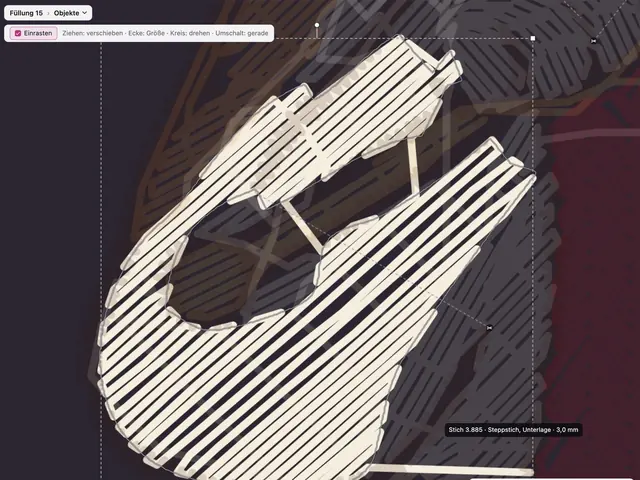
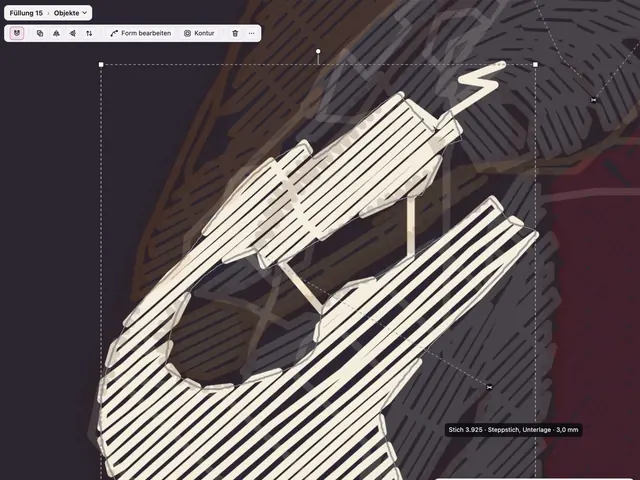
Teil 13 neu aufgenommen: Aktionsleiste, hohle Punkte, Weitersticken, Stimme Gacrux, Länge 3:20

diff --git a/src/videos/catalog.ts b/src/videos/catalog.ts
@@ -186,11 +186,11 @@ export const VIDEOS: Video[] = [
     key: '13-form-und-einzelne-stiche',
     part: 13,
     title: { de: 'Form und einzelne Stiche', en: 'Shape and single stitches' },
-    length: '2:38',
+    length: '3:20',
     group: 'detail',
-    goal: { de: 'Du änderst die Form eines Objekts an seinen Knoten und setzt, verschiebst und dünnst einzelne Stiche aus.', en: "You change an object's shape at its nodes and add, move and thin out single stitches." },
+    goal: { de: 'Du änderst die Form eines Objekts an seinen Knoten und setzt, verschiebst, ergänzt und dünnst einzelne Stiche aus.', en: "You change an object's shape at its nodes and add, move, extend and thin out single stitches." },
     files: ['cat-60mm.pes'],
-    published: '2026-10-09T12:22:19+02:00',
+    published: '2026-10-11T13:04:55+02:00',
   },
 ];
 

diff --git a/docs/screencasts/13-form-und-einzelne-stiche/vorlage.md b/docs/screencasts/13-form-und-einzelne-stiche/vorlage.md
@@ -1,10 +1,10 @@
 # Teil 13: Form und einzelne Stiche
 
-Schlüssel `13-form-und-einzelne-stiche`, Demodatei `cat-60mm.pes` („Katze“ unter „Weitere Beispiele“), etwa 2,5 Minuten, rund 320 Wörter.
+Schlüssel `13-form-und-einzelne-stiche`, Demodatei `cat-60mm.pes` („Katze“ unter „Weitere Beispiele“), 3:20 lang (die Stimme Gacrux spricht ruhiger als Aoede; Daniel hat die Länge so abgenommen), rund 310 Wörter.
 
-Das ganze Video arbeitet an einem Objekt: der linken Pfote der Katze (Creme, „Füllung 15“, 212 Stiche). Sie ist aus den Stichen erkannt; ihr Umriss hat 34 Knoten und oben eine kleine Schlaufe, die die Erkennung hineingelegt hat. Ohne die Schlaufe hat sie 32 Knoten, Vereinfachen macht daraus 23, und die Pfote wird sauber neu gestickt.
+Das ganze Video arbeitet an einem Objekt: der linken Pfote der Katze (Creme, „Füllung 15“, 212 Stiche). Sie ist aus den Stichen erkannt; ihr Umriss hat 34 Knoten und oben eine kleine Schlaufe, die die Erkennung hineingelegt hat. Ohne die Schlaufe hat sie 32 Knoten, Vereinfachen macht daraus 23, ein hohler Punkt einen 24. Knoten, und die Pfote wird sauber neu gestickt.
 
-Aufgenommen mit main 8b21718: Ausdünnen legt die gewählten Reihen einer Füllung gleichmäßig weiter (#203, #207); die Pfote hat danach 188 statt 208 Stiche. Etwa 2:38 lang.
+Neu aufgenommen mit main 5dcdb89 (Oktober 2026): „Form bearbeiten“ in der Aktionsleiste, Form-Leiste nur mit Symbolen, hohle Punkte für neue Knoten, Stich-Leiste mit Weitersticken, Papierkorb und Pfeilen. Die Werkzeuge Verbinden, Teilen, Knoten an Kreuzungen und Pfad öffnen zeigt Teil 16. Stimme abweichend von der Serie: Gacrux.
 
 ## Szene 1
 
@@ -14,60 +14,66 @@ Aufgenommen mit main 8b21718: Ausdünnen legt die gewählten Reihen einer Füllu
 
 ## Szene 2
 
-**Bild:** Klick auf die linke Pfote: Sie ist gewählt, der Rest der Katze wird blass. Heranzoomen oben links, Etikett Breadcrumb an „Füllung 15 › Objekte“. Klick auf „Objekte“, das Menü zeigt die drei Ebenen Objekte, Form und Stiche. Esc schließt es.
+**Bild:** Klick auf die linke Pfote: Sie ist gewählt. Heranzoomen oben links, Etikett Breadcrumb an „Füllung 15 › Objekte“. Klick auf „Objekte“, das Menü zeigt die drei Ebenen Objekte, Form und Stiche. Esc schließt es.
 
 **Sprechtext:** Ich klicke die Pfote an. Oben links auf der Bühne steht der Breadcrumb. Er nennt das Objekt und die Ebene, auf der du arbeitest: Objekte, Form oder Stiche.
 
 ## Szene 3
 
-**Bild:** Doppelklick auf die Pfote. Die Bühne zoomt auf ihren Umriss mit Knoten, Breadcrumb „Form“, darüber die Leiste „Umriss 34 Knoten“. Etiketten nacheinander an einem Quadrat (Ecke) und einem Kreis (rund).
+**Bild:** Der Zeiger fährt auf „Form bearbeiten“ in der Aktionsleiste unter dem Breadcrumb, Etikett. Dann Doppelklick auf die Pfote. Die Bühne zoomt auf ihren Umriss mit Knoten, Breadcrumb „Form“, darüber die Leiste „Umriss 34 Knoten“. Etiketten nacheinander an einem Quadrat (Ecke) und einem Kreis (rund).
 
-**Sprechtext:** Ein Doppelklick öffnet die Form. Jetzt siehst du den Umriss mit seinen Knoten. Quadrate sind Ecken, Kreise sind runde Knoten.
+**Sprechtext:** Darunter liegt die Aktionsleiste mit Form bearbeiten. Schneller geht ein Doppelklick. Jetzt siehst du den Umriss mit seinen Knoten. Quadrate sind Ecken, Kreise sind runde Knoten.
 
 ## Szene 4
 
-**Bild:** Heranzoomen auf die kleine Schlaufe oben an der Pfote. Klick auf ihren Knoten, Tastenkappe „Entf“. Die Schlaufe ist weg, die Pfote wird neu gestickt, die Leiste zeigt 32 Knoten.
+**Bild:** Heranzoomen auf die kleine Schlaufe oben an der Pfote, Etikett Schlaufe. Klick auf ihren Knoten, Tastenkappe „Entf“. Die Schlaufe ist weg, die Pfote wird neu gestickt, die Leiste zeigt 32 Knoten.
 
 **Sprechtext:** [curious] Hier hat die Erkennung eine kleine Schlaufe gemacht. Ich klicke den Knoten an und drücke Entfernen. [satisfied] Weg ist sie, und die Pfote wird gleich neu gestickt.
 
 ## Szene 5
 
-**Bild:** Heranzoomen auf die Leiste über der Bühne, Etikett Vereinfachen, Klick. Die Meldung „32 → 23 Knoten“ erscheint unten auf der Bühne, die Form sieht gleich aus.
+**Bild:** Heranzoomen auf die Form-Leiste, Etikett „32 Knoten“, dann Etikett Vereinfachen am Symbol, Klick. Die Meldung „32 → 23 Knoten“ erscheint unten auf der Bühne, Etikett „23 Knoten“, die Form sieht gleich aus.
 
-**Sprechtext:** Aus Stichen erkannte Formen haben oft mehr Knoten als nötig. Vereinfachen in der Leiste über der Bühne nimmt welche weg, ohne die Form sichtbar zu ändern. Aus 32 werden 23 Knoten.
+**Sprechtext:** Erkannte Formen haben oft mehr Knoten als nötig. Das Symbol Vereinfachen nimmt welche weg, ohne die Form sichtbar zu ändern. Aus 32 werden 23 Knoten.
 
 ## Szene 6
 
-**Bild:** Der Zeiger zieht einen runden Knoten unten an der Pfote ein Stück nach außen, die Pfote wird runder. Beim Loslassen erscheinen die neuen Stiche.
+**Bild:** Heranzoomen unten rechts an die Pfote. Etikett „hohler Punkt“ an einem hohlen Punkt in der Mitte einer Kurve. Der Zeiger zieht ihn nach außen, ein neuer Knoten entsteht, die Pfote wird runder. Beim Loslassen erscheinen die neuen Stiche.
 
-**Sprechtext:** Einen Knoten ziehst du einfach mit der Maus. Ich mache die Pfote unten etwas runder. Beim Loslassen stickt heatstitch sie mit ihren Einstellungen neu.
+**Sprechtext:** Knoten ziehst du einfach mit der Maus. Ziehst du einen der hohlen Punkte dazwischen, entsteht dort ein neuer Knoten. So mache ich die Pfote unten etwas runder.
 
 ## Szene 7
 
-**Bild:** Tastenkappe „Enter“. Breadcrumb „Stiche“, jeder Einstich ist ein kleiner Punkt, die Leiste zeigt „Nichts gewählt · Alle · Löschen · Teilen · Ausdünnen“. Heranzoomen auf die Mitte der Pfote.
+**Bild:** Tastenkappe „Enter“. Breadcrumb „Stiche“, Etikett. Die Leiste zeigt „Nichts gewählt · Weitersticken · Alle · Papierkorb · Teilen · Ausdünnen“ und Pfeile. Heranzoomen auf die Mitte der Pfote, Etikett Einstich an einem Punkt.
 
 **Sprechtext:** Mit Enter gehst du eine Ebene tiefer, zu den Stichen. Jeder kleine Punkt ist ein Einstich, also eine Stelle, an der die Nadel in den Stoff geht.
 
 ## Szene 8
 
-**Bild:** Der Zeiger zieht einen Einstich ein Stück zur Seite. Ein Etikett der App zeigt die beiden Stiche daran, etwa „3,5 mm · 3,7 mm“.
+**Bild:** Klick auf den Einstich: Die Stiche zu seinen Nachbarn leuchten, Pfeile zeigen die Richtung des Fadens. Dann zieht der Zeiger ihn ein Stück zur Seite, ein Etikett der App zeigt die beiden Stiche daran, etwa „3,5 mm · 3,7 mm“.
 
-**Sprechtext:** Einen Einstich ziehst du an eine andere Stelle. Das kleine Etikett zeigt dabei, wie lang die beiden Stiche daran werden.
+**Sprechtext:** Ich wähle einen Einstich. Pfeile zeigen, wie der Faden läuft. Ziehst du ihn, zeigt das Etikett, wie lang die beiden Stiche daran werden.
 
 ## Szene 9
 
-**Bild:** Doppelklick auf einen Stich, ein neuer Einstich erscheint. Tastenkappe „Entf“, er ist wieder weg, Meldung „1 Einstich gelöscht“.
+**Bild:** Heranzoomen oben an die Spitze der Pfote, wo die App „Ende“ an den letzten Einstich schreibt. Klick darauf, Tastenkappe „W“, „Weitersticken“ in der Leiste leuchtet. Drei Klicks setzen drei Einstiche: eine kleine Kralle. „Ende“ wandert mit. Tastenkappe „Enter“.
 
-**Sprechtext:** Ein Doppelklick auf einen Stich setzt dort einen neuen Einstich. Mit Entfernen löschst du den gewählten wieder.
+**Sprechtext:** Oben endet der Faden, dort steht Ende. Ich wähle den letzten Einstich und drücke W für Weitersticken. Jeder Klick hängt nun einen Einstich an. Enter beendet.
 
 ## Szene 10
 
-**Bild:** Tastenkappe „Strg+A“, alle Einstiche sind gewählt. Heranzoomen auf die Leiste, Klick auf 25 %, Etikett Ausdünnen, Klick. Meldung „… Einstiche entfernt“, die Pfote ist lockerer gestickt.
+**Bild:** Doppelklick auf einen Stich, ein neuer Einstich erscheint. Tastenkappe „Entf“, er ist wieder weg, Meldung „1 Einstich gelöscht“.
 
-**Sprechtext:** Ist eine Stelle zu dicht, wählst du mit Strg+A alle Einstiche und klickst auf Ausdünnen. Bei 25 Prozent nimmt heatstitch jeden vierten Einstich heraus.
+**Sprechtext:** Ein Doppelklick auf einen Stich setzt einen neuen Einstich. Entfernen löscht ihn wieder.
 
 ## Szene 11
 
+**Bild:** Tastenkappe „Strg+A“, alle Einstiche sind gewählt. Heranzoomen auf die Leiste, Etikett Ausdünnen, Klick auf 25 %, Klick auf Ausdünnen. Meldung „… Einstiche entfernt“, die Pfote ist lockerer gestickt.
+
+**Sprechtext:** Ist eine Stelle zu dicht, wählst du mit Strg+A alle Einstiche und klickst auf Ausdünnen. Bei 25 Prozent legt heatstitch die Reihen gleichmäßig weiter auseinander.
+
+## Szene 12
+
 **Bild:** Heranzoomen rechts auf die Karte Objekt, Etikett an „Änderungen von Hand“. Tastenkappe „Esc“, zurück zu den Objekten. Der Zeiger fährt links zu Stiche von Hand in der Werkzeugleiste, Etikett, Tastenkappe „E“. Dann Abspann.
 
-**Sprechtext:** Rechts zählt die Karte deine Änderungen von Hand. Escape bringt dich zurück zu den Objekten. Und links in der Werkzeugleiste öffnet Stiche von Hand, Taste E, die Stiche jedes Objekts direkt. [warm] So wird jedes Detail genau so, wie du es willst.
+**Sprechtext:** Rechts zählt die Karte deine Änderungen von Hand. Escape bringt dich zurück zu den Objekten. Links in der Werkzeugleiste öffnet Stiche von Hand, Taste E, die Stiche jedes Objekts direkt. [warm] So wird jedes Detail genau so, wie du es willst.
